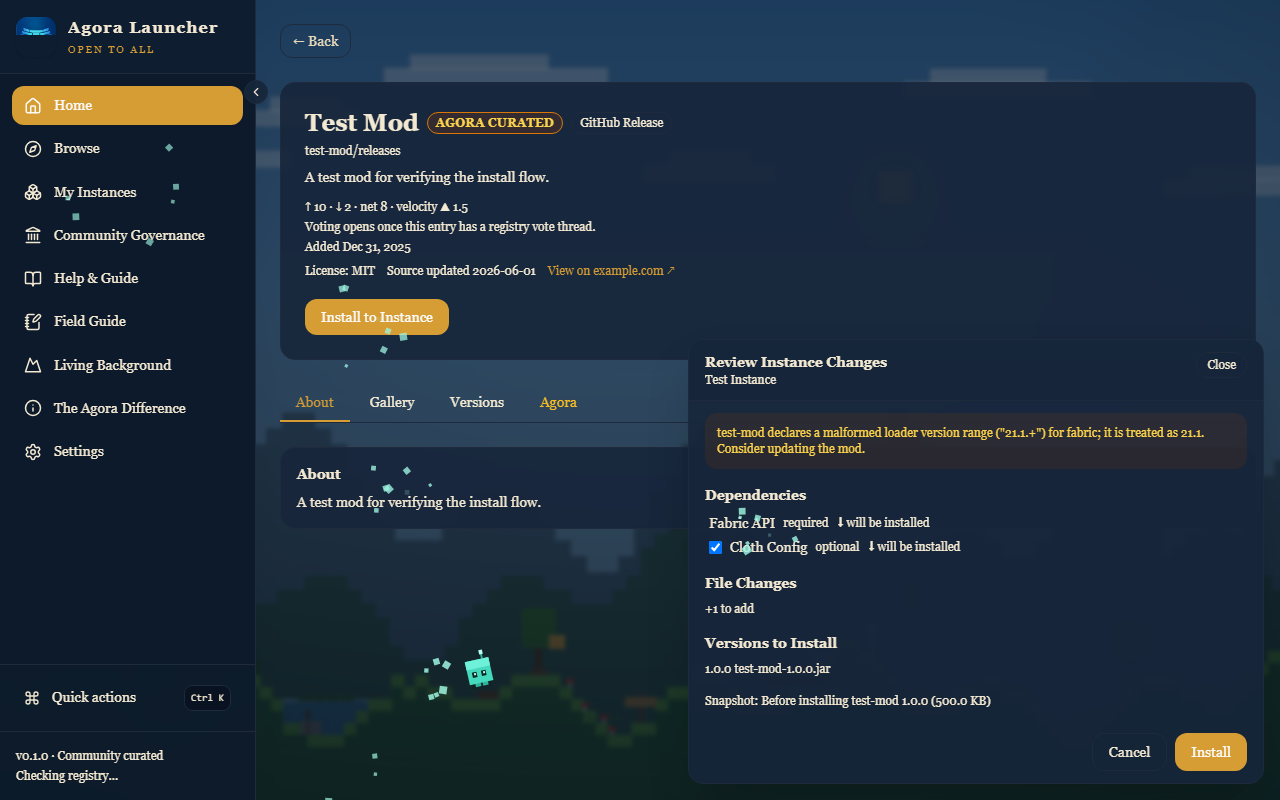
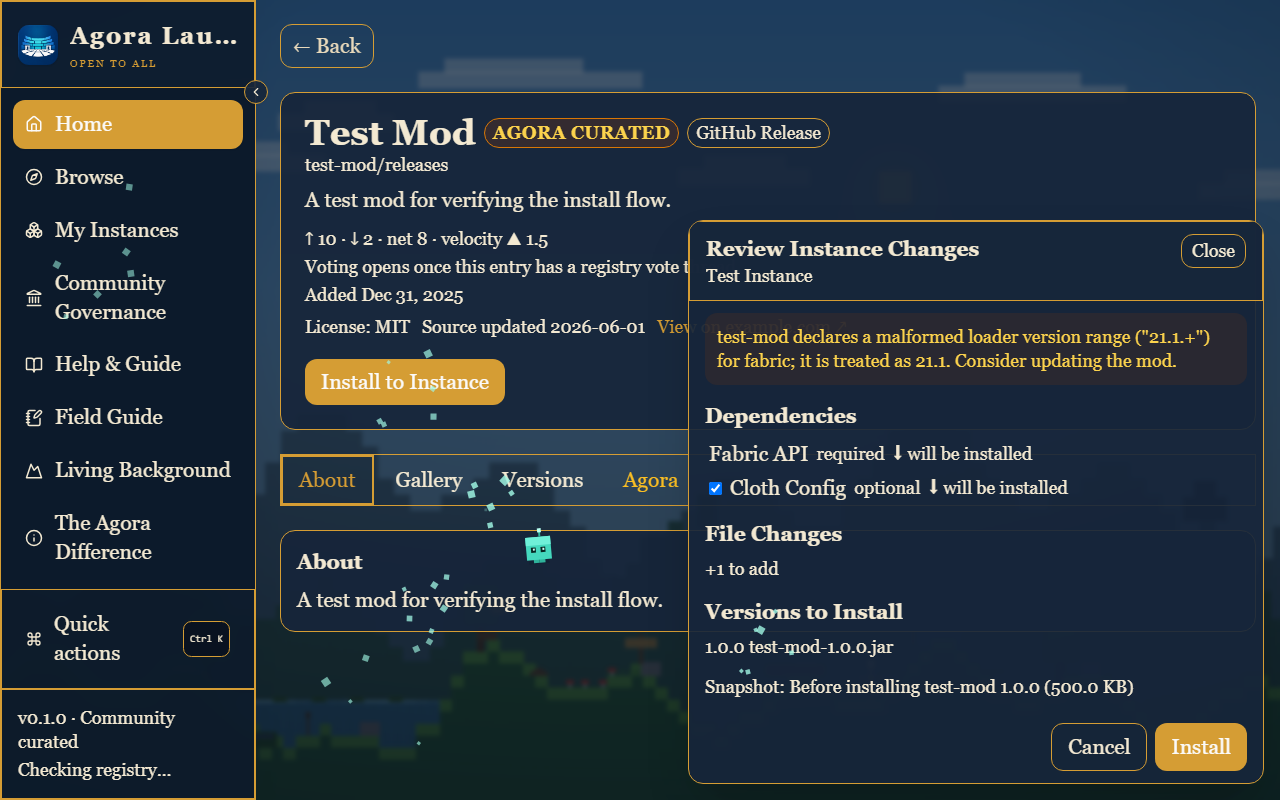
feat(appearance): enhance border color handling and improve visibility checks feat(launcher): add Microsoft authentication mock responses for onboarding fix(css): update border property to use variable scaling feat(about): redesign "Why Agora?" section for improved clarity and layout chore: update b

diff --git a/desktop/src/pages/About.tsx b/desktop/src/pages/About.tsx
@@ -1,5 +1,6 @@
 import {
   Info,
+  Landmark,
   Sparkles,
   SlidersHorizontal,
   Vote,
@@ -73,10 +74,15 @@ export function About() {
         </div>
       </section>
 
-      <section className="panel space-y-4">
-        <h2 className="rule-gold text-xl font-semibold text-ink">Why "Agora"?</h2>
-        <p className="leading-7 text-gray-700 dark:text-gray-300">
-          The name "Agora" comes from the ancient Greek word for a public gathering place. Just as the Agora was the heart of social and political life in ancient Athens, Agora is designed to be a central hub for the Minecraft modding community.
+      <section className="rounded-xl border border-border bg-card p-6">
+        <div className="flex items-center gap-2 mb-3">
+          <Landmark className="h-5 w-5 text-primary" aria-hidden="true" />
+          <h3 className="text-lg font-semibold">Why &ldquo;Agora&rdquo;?</h3>
+        </div>
+        <p className="text-sm leading-6 text-muted-foreground">
+          The name &ldquo;Agora&rdquo; comes from the ancient Greek word for a public gathering
+          place. Just as the agora was the heart of social and political life in ancient Athens,
+          Agora is designed to be a central hub for the Minecraft modding community.
         </p>
       </section>
 
@@ -86,15 +92,22 @@ export function About() {
           <Sparkles className="h-5 w-5 text-primary" aria-hidden="true" />
           <h3 className="text-lg font-semibold">What makes Agora unique</h3>
         </div>
-        <p className="text-sm leading-6 text-muted-foreground">
-          Agora works to bring user-friendliness, advanced features, and multiple sources of mods together in one place.
-          Most launchers and mod platforms are run for profit, alienate non-tech savvy and visual focused users, are littered with ads, and/or bury
-          great mods under a mountain of mediocre downloads. Agora is the opposite — it puts the
-          community in charge and keeps the experience personal, private, and free.
-          Too much of the modding community is built around which platform is used and their philosophies. Modding was never meant to be an industry, it was meant to be a community. As with the Origin of the word in ancient Greece Agora is the beating heart that brings that community together.
-        </p>
+        <div className="space-y-3 text-sm leading-6 text-muted-foreground">
+          <p>
+            Agora works to bring user-friendliness, advanced features, and multiple sources of
+            mods together in one place. Most launchers and mod platforms are run for profit,
+            alienate non-tech-savvy and visually focused users, are littered with ads, and bury
+            great mods under a mountain of mediocre downloads. Agora is the opposite — it puts
+            the community in charge and keeps the experience personal, private, and free.
+          </p>
+          <p>
+            Too much of the modding community is built around which platform is used and their
+            philosophies. Modding was never meant to be an industry; it was meant to be a
+            community. As with the origin of the word in ancient Greece, Agora is the beating
+            heart that brings that community together.
+          </p>
+        </div>
       </section>
-
 
       {/* Pillars */}
       <div className="grid gap-4 sm:grid-cols-2">

diff --git a/desktop/e2e/appearance.spec.ts b/desktop/e2e/appearance.spec.ts
@@ -77,7 +77,7 @@ test('font, scale, border color, and reduced motion persist', async ({ page }) =
   await openAppearance(page, 'Theme');
   await page.getByLabel('Toggle custom colors').click();
   await page.getByLabel('Use custom border color').check();
-  await page.getByLabel('Border color').fill('#506478');
+  await page.getByLabel('Border color', { exact: true }).fill('#506478');
 
   await expect(page.locator('html')).toHaveAttribute('data-font', 'readable');
   await expect(page.locator('html')).toHaveAttribute('data-motion', 'reduced');
@@ -94,6 +94,7 @@ test('border color defaults to the accent when left on theme mode', async ({ pag
   await openAppearance(page, 'Theme');
   await page.getByLabel('Toggle custom colors').click();
   await expect(page.getByLabel('Use custom border color')).not.toBeChecked();
+  await page.getByLabel('Color mode').selectOption('light');
   await page.getByLabel('Accent source').selectOption('custom');
   await page.getByLabel('Custom accent color').fill('#663399');
   await expect.poll(() => page.evaluate(() => getComputedStyle(document.documentElement).getPropertyValue('--primary').trim())).toBe('270 50% 40%');
@@ -106,7 +107,7 @@ test('text scale slider extends to 200%', async ({ page }) => {
   await expect(slider).toHaveAttribute('max', '2');
   await slider.fill('2');
   await expect.poll(() => page.evaluate(() => document.documentElement.style.getPropertyValue('--font-scale'))).toBe('2');
-  await expect(page.getByText('200%')).toBeVisible();
+  await expect(page.getByText('200%', { exact: true })).toBeVisible();
 });
 
 test('border thickness slider scales every border width', async ({ page }) => {
@@ -134,7 +135,7 @@ test('border thickness slider scales every border width', async ({ page }) => {
 test('background, text, density, scale, corners, and fonts apply broadly', async ({ page }) => {
   await openAppearance(page, 'Interface');
   const card = page.getByTestId('appearance-interface');
-  const sampleText = card.getByText('Font, density, corners, and text size apply across every page.');
+  const sampleText = card.getByText('Font, density, corners, border thickness, and text size apply across every page.');
   const initialPadding = await card.evaluate((element) => getComputedStyle(element).paddingTop);
   const initialFontSize = await sampleText.evaluate((element) => getComputedStyle(element).fontSize);
   const initialRadius = await card.evaluate((element) => getComputedStyle(element).borderRadius);

diff --git a/desktop/e2e/launcher-import.spec.ts b/desktop/e2e/launcher-import.spec.ts
@@ -439,6 +439,11 @@ async function installOnboardingMockWithImport(page: Page) {
         }
         if (command === 'check_registry_update') return Promise.resolve(null);
 
+        // --- Microsoft auth (onboarding Launch step blocks Continue on direct launch without it) ---
+        if (command === 'msa_get_status') return Promise.resolve({ username: 'TestUser', uuid: '00000000-0000-0000-0000-000000000000', expires: '2099-01-01T00:00:00Z' });
+        if (command === 'msa_login') return Promise.resolve({ username: 'TestUser', uuid: '00000000-0000-0000-0000-000000000000', expires: '2099-01-01T00:00:00Z' });
+        if (command === 'msa_logout') return Promise.resolve(null);
+
         // --- Browse / ambient ---
         if (command === 'list_categories') return Promise.resolve([]);
         if (command === 'browse_search') return Promise.resolve({ items: [], total: 0, page: 0, hasMore: false });

diff --git a/desktop/src/index.css b/desktop/src/index.css
@@ -701,7 +701,7 @@
   gap: 0.25rem;
   overflow-x: auto;
   border-radius: calc(var(--radius) * 1.15);
-  border: 1px solid hsl(var(--border));
+  border: calc(1px * var(--border-scale)) solid hsl(var(--border));
   background-color: hsl(var(--card) / var(--surface-opacity));
   padding: 0.35rem;
   box-shadow: 0 10px 30px -26px hsl(var(--foreground) / 0.8);
